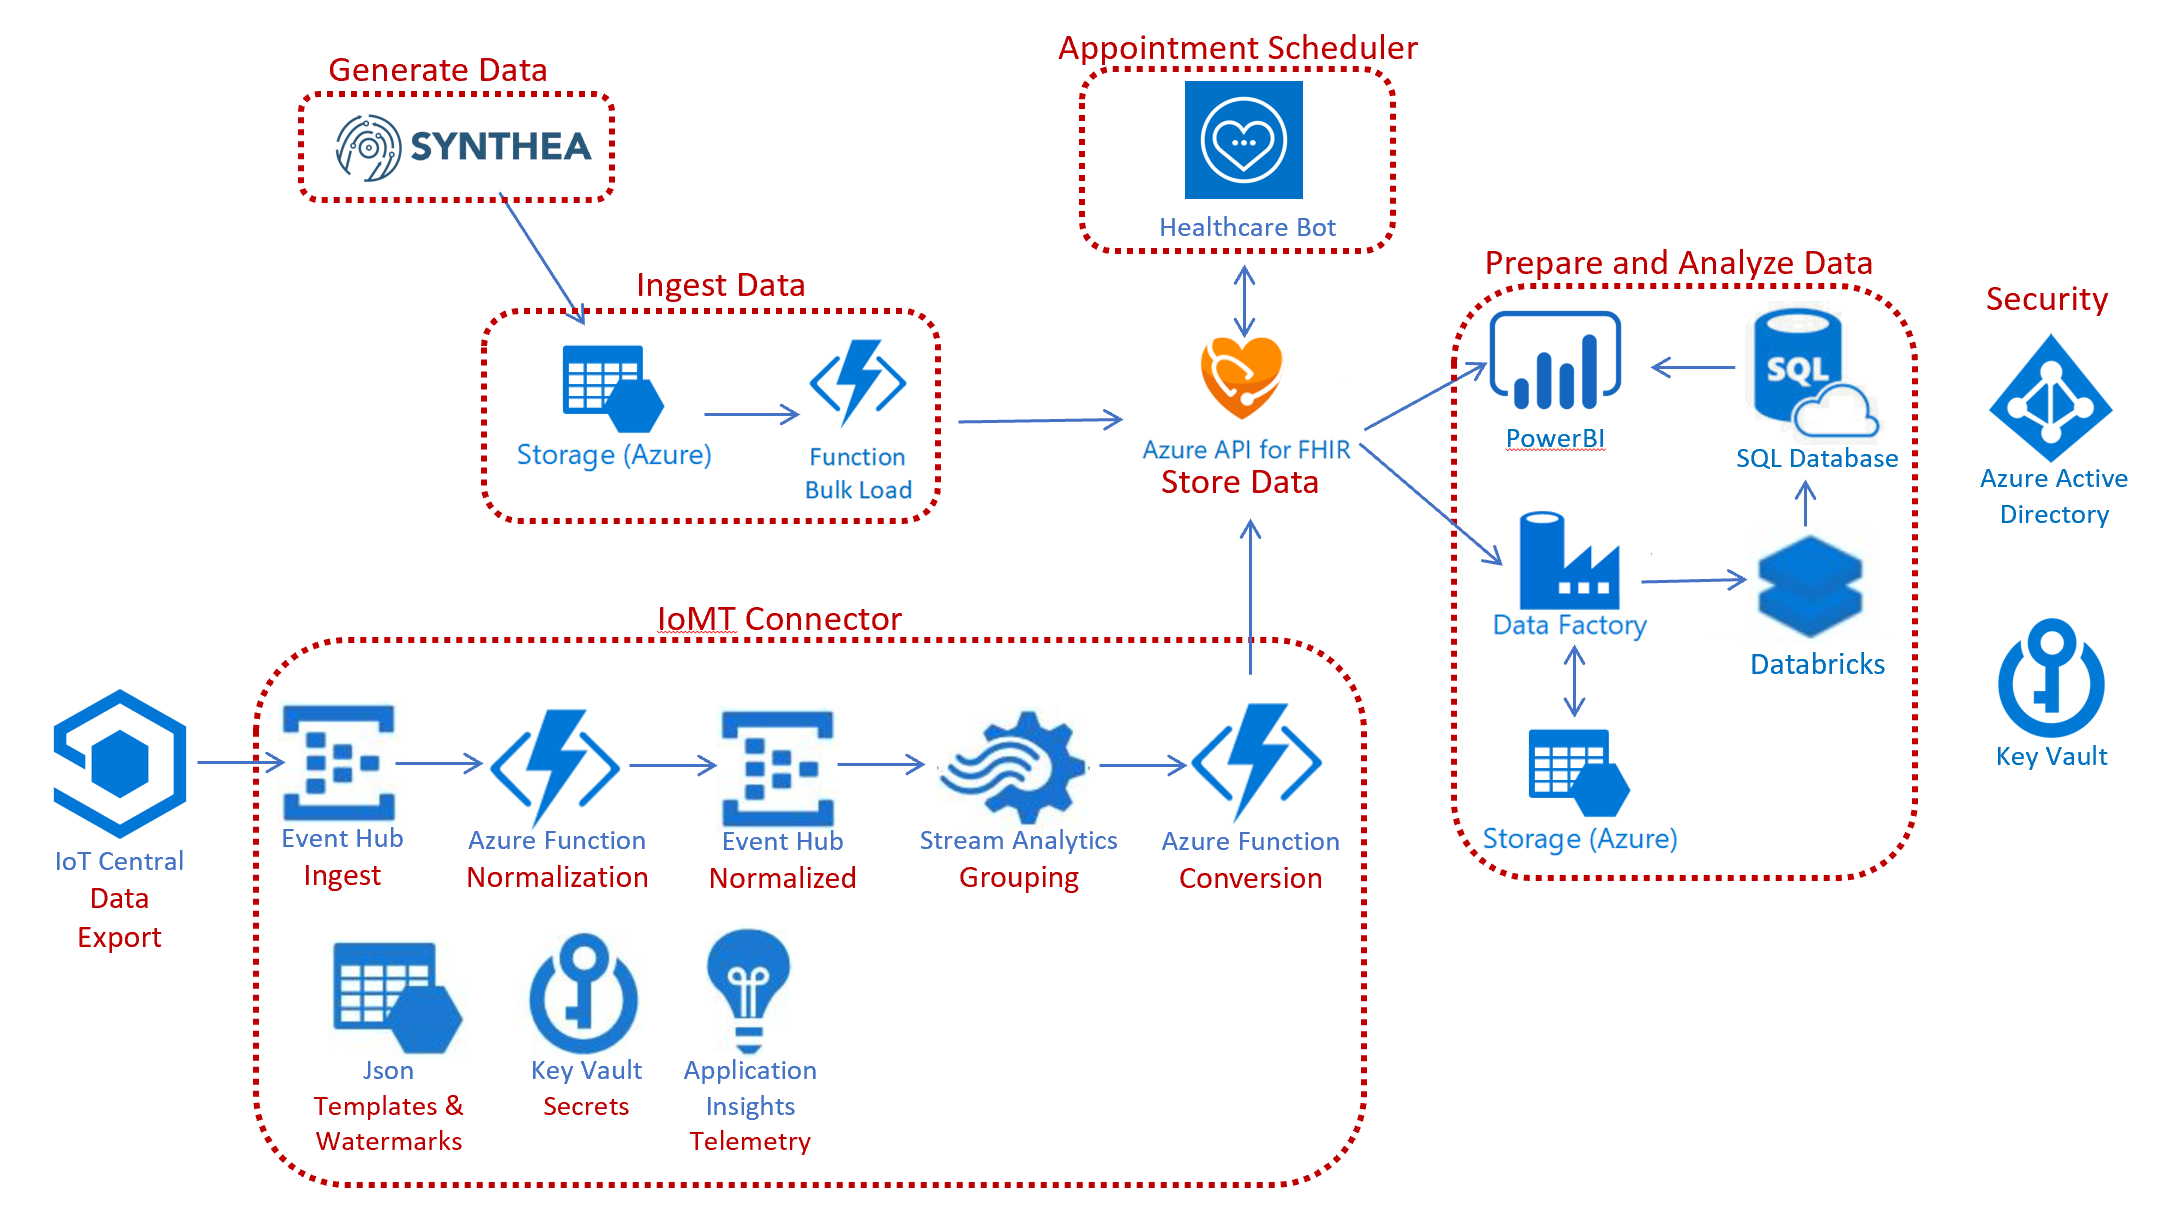
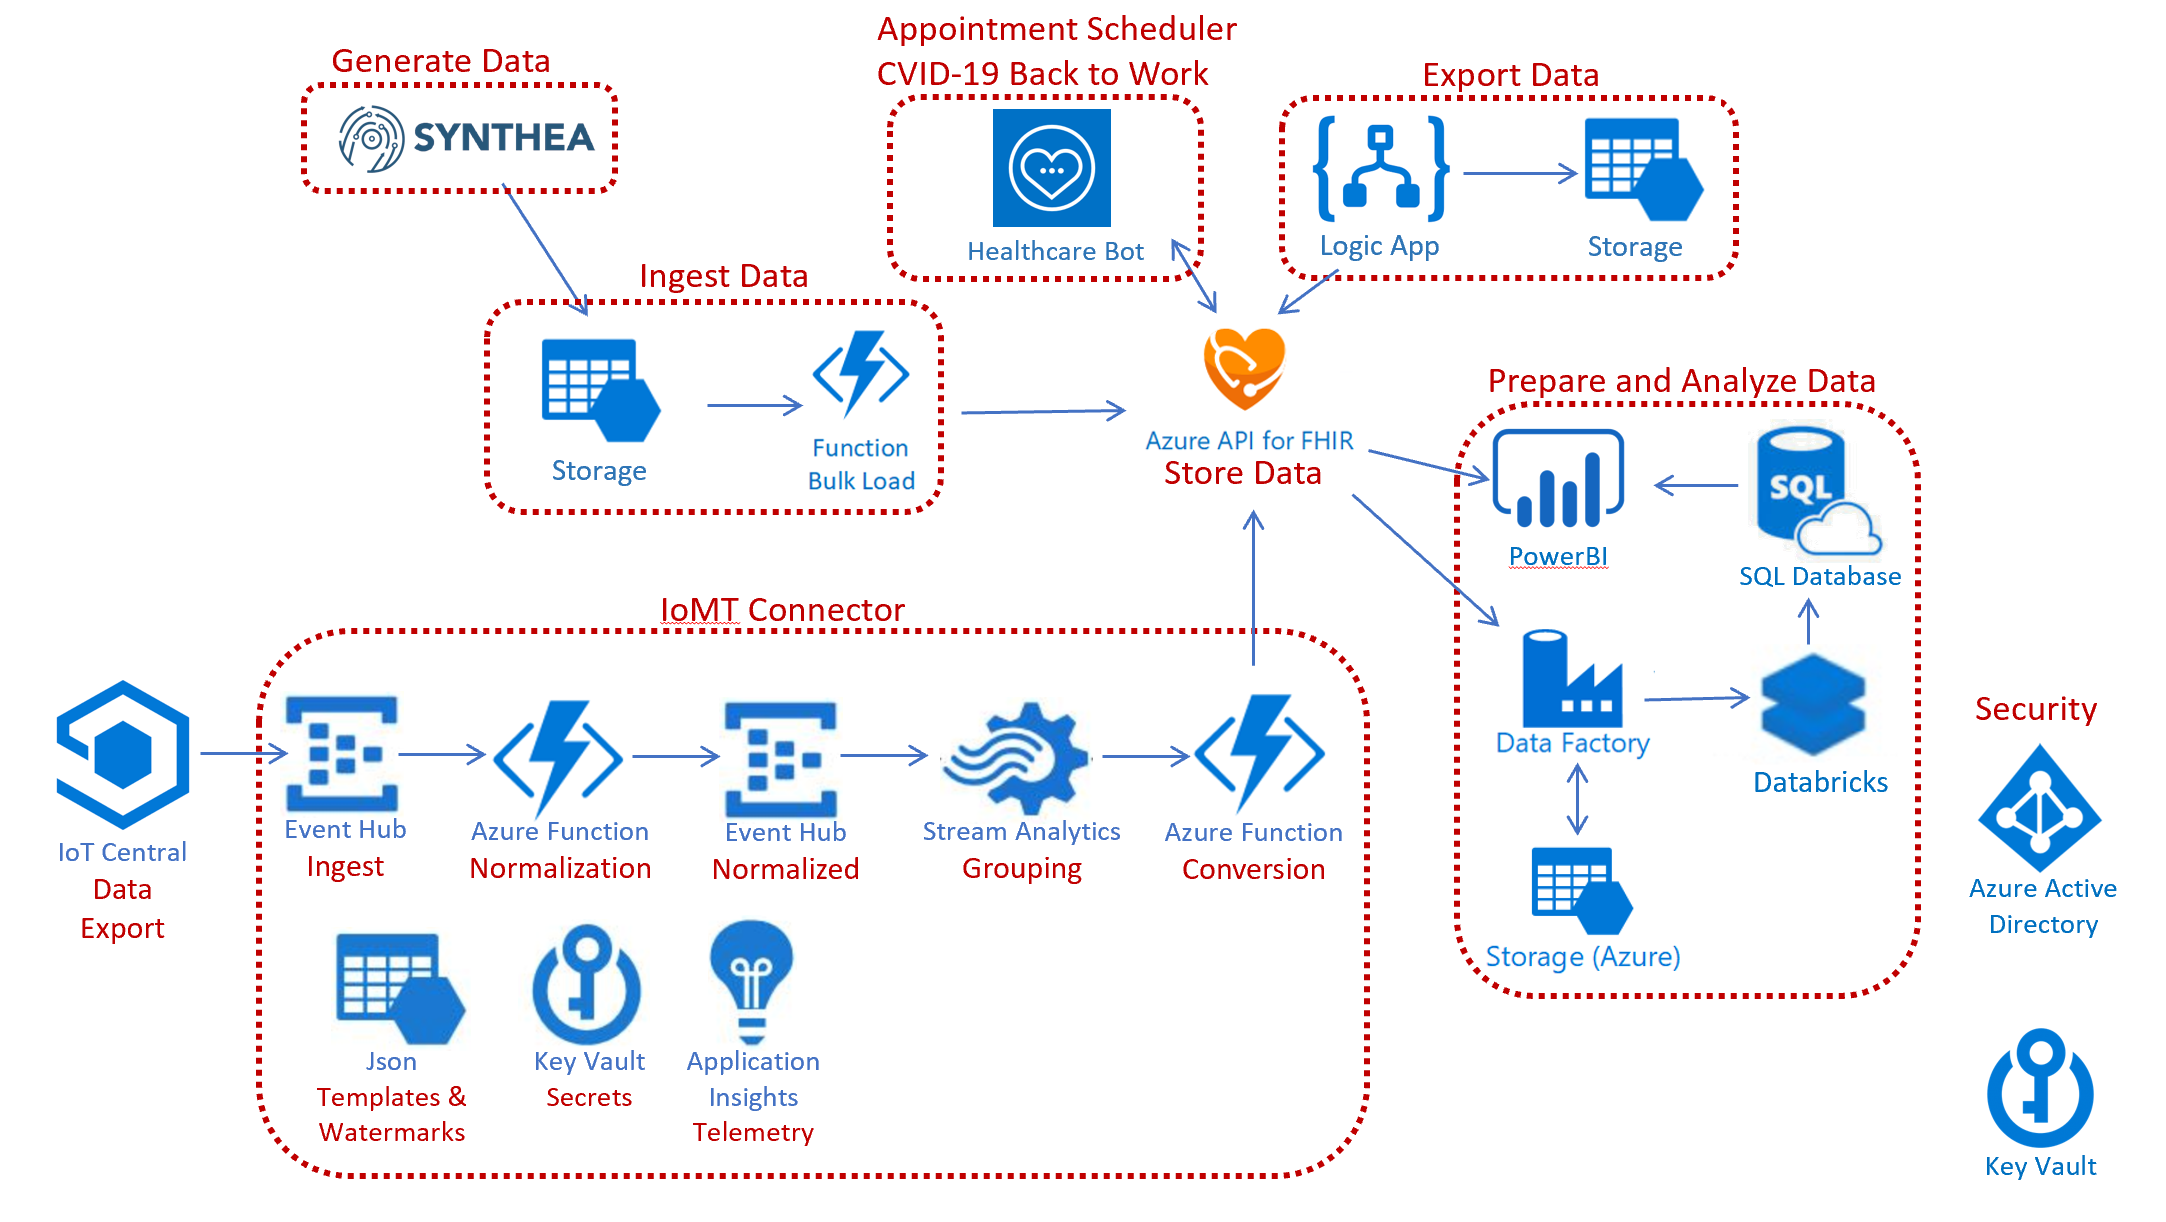
Updated

diff --git a/Chapter10-ExportData/ReadMe.md b/Chapter10-ExportData/ReadMe.md
@@ -1,0 +1,88 @@
+# Chapter 9 - Healthcare Bot: Booking Appointments and Back to Work
+
+#### This chapter is sub-version of [HealthBot](https://docs.microsoft.com/en-us/HealthBot/) focusing on scheduling appointments and symptom screening. Click on the link for more details.
+
+The Health Bot Service is a SaaS solution that empowers Microsoft partners to build and deploy compliant, AI-powered health agents, allowing them to offer their users intelligent, personalized access to health-related information and interactions through a natural conversation experience. 
+
+This chapter focuses on how to use the "Booking appointments" and "Back to Work" template in HealthBot Service and allow users to schedule an appointment with a healthcare provider using FHIR easily and securely.
+
+## Prerequisites
+* [Azure API for FHIR R4 server](../Chapter2-AzureAPIforFHIR/ReadMe.md) with Patient, Schedule and Slot resources.
+* Access to create SaaS [Microsoft Healthcare Bot Service](https://azuremarketplace.microsoft.com/en-us/marketplace/apps/microsoft-hcb.microsofthealthcarebot).
+
+## Steps
+* Setup:\
+Create a [Microsoft Healthcare Bot Service](https://azuremarketplace.microsoft.com/en-us/marketplace/apps/microsoft-hcb.microsofthealthcarebot). Select a software plan and click Create.
+* Configuration:\
+You will receive an email from Azure Marketplace with a config link to the Health Bot Service admin portal. Once configuration is done, you will see the Health Bot Service home page.
+* Authentication:\
+Click Integration --> Authentication from the left navigation and click '+ New'.\
+-- Enter Name for 'Authentication provider'. \
+-- Choose "OAuth 2.0: Server-to-server authorization" in 'Authentication method'.\
+-- Enter your Azure API for FHIR Client ID in 'Client ID'. You can find this in your Azure API for FHIR app registration.\
+-- Enter your Azure API for FHIR Client Secret in 'Client Secret'. You can find this in your Azure API for FHIR app registration.\
+-- Enter https://login.microsoftonline.com/tenantid/oauth2/v2.0/token in 'Access Token URL'. You can find this in Authority under Authentication in your Azure API for FHIR service.\
+-- Check if your Object ID has been added to 'Allowed Object IDs' in your Azure API for FHIR service.\
+-- Enter https://myfhir.azurehealthcareapis.com/.default in 'Scope'.\
+-- Click 'Update'.
+* Data Connection:\
+Click Integration --> Data connections from the left navigation and click '+ New'.\
+-- Enter Name for 'Data connection'.\
+-- Turn on 'FHIR Support'.\
+-- Enter https://myfhir.azurehealthcareapis.com for 'Base URL'. You can find this in Audience under Authentication in your Azure API for FHIR service.\
+-- Choose the Authentication Provider create above in 'Authentication provider'.\
+-- Click 'Update'.
+
+### Booking Appointments Template
+* Template Catalog:\
+-- Expand 'Scenarios' in the left navgation and click 'Template catalog'.\
+-- Click 'Booking appointments' and click 'Import template'.\
+-- The visual designer will open with the template. The imported template will appear under 'Scenarios' --> 'Manage'. Clicking on the name of the template will also open the template in visual designer.
+* Design and Coding: Update Template\
+** Schedule and Slot has to be available for the service types on your Azure API for FHIR.\
+** This template was enhanced to work to create an appointment.\
+-- Click the 'Code' tab on the bottom left.\
+-- Copy and paste from the [Updated Template](./UpdatedFHIRTemplate.json).\
+-- Edit names of 'authenticationProvider' and 'dataConnection' in the file to the ones you created in steps above.\
+-- Save and Exit.\
+-- Open the file and click 'Run' at the top.
+* Design and Coding: From Template Catalog\
+** Schedule and Slot has to be available for the service types on your Azure API for FHIR.\
+** This template has building blocks but needs design and coding changes before ready to create an appointment.\
+** The following changes needs to done for every Data Connection in the template.\
+-- Double-click or right-click --> Edit on every Data Connection that is in oval shape.\
+-- Copy the 'Payload' and save somewhere as you will need it.\
+-- Choose the Data Connection created above from the drop-down.\
+-- Check if the right Base URL appears in 'Base URL'.\
+-- Change 'Path' to not have / or quotes as pre-fix or post-fix. Example: Patient and not /Patient or 'Patient'\
+-- 'Payload' will be grayed out for 'Read'. Paste the copied Payload, from few steps above, into the 'Payload' box for 'Create'. Click Ok. Changing the Data Connection sets the code in Payload to default.\
+-- Save and Exit.\
+-- Re-open and test by right-clicking on any and click 'Run from here'.\
+-- Use Postman or other tools to test if the resources has been saved to Azure API for FHIR.
+
+### Back to Work Template
+* Template Catalog:\
+-- Expand 'Scenarios' in the left navgation and click 'Template catalog'.\
+-- Click 'Back to Work' and click 'Import template'.\
+-- There will be 2 templates created: 'COVID19 Back To Work Core' and 'COVID19 Back To Work CRUD' and will appear under 'Scenarios' --> 'Manage'. CRUD template is called from Core. Clicking on the name of the template will open the template in visual designer.
+* Design and Coding: Update Template\
+-- Open the 'COVID19 Back To Work CRUD' template.\
+** This template has building blocks but needs connection changes before ready to be run.\
+** The following changes needs to done for every Data Connection in the CRUD template.\
+-- Double-click or right-click --> Edit on every Data Connection that is in oval shape.\
+-- Copy the 'Payload' and save somewhere as you will need it.\
+-- Choose the Data Connection created above from the drop-down.\
+-- Check if the right Base URL appears in 'Base URL'.\
+-- 'Payload' will be grayed out for 'Read'. Paste the copied Payload, from few steps above, into the 'Payload' box for 'Create'. Click Ok. Changing the Data Connection sets the code in Payload to default.\
+-- Save and Exit.\
+-- Open 'COVID19 Back To Work Core' template and click 'Run'.\
+-- Use Postman or other tools to test if the resources has been saved to Azure API for FHIR.
+
+* Web Chat:\
+Check this to [Embed Health Bot service in Web](https://github.com/Microsoft/HealthBotcontainersample)
+
+
+
+*** 
+
+

diff --git a/README.md b/README.md
@@ -9,7 +9,8 @@ The high level solution architecture includes:
 #### * Store Data: Store FHIR data in Azure API for FHIR service.
 #### * Prepare and Analyze Data: Prepare data using Azure Data Factory and Azure Databricks. Store in Azure SQL DB. Analyze using PowerBI.
 #### * IoMT Connector: Ingest data from IoMT (internet of medical things) devices and persist the data in a FHIR® server.
-#### * Appointment Scheduler: Allow users to schedule an appointment using Healthcare Bot and FHIR.
+#### * Appointment Scheduler: Allow users to schedule an appointment using Healthcare Bot and FHIR. Back to Work: COVID-19 symptom screening to check if it is safe for your employees to return to work.
+#### * Export Data: Export FHIR data using Logic Apps into Blob Storage.
 
 <center><img src="images//azure-api-fhir-paas.png" width="850"></center>
 
@@ -26,7 +27,8 @@ Azure Subscription is required to complete this starter kit. Azure Subscription 
 * [Chapter 6 - PowerBI: Analyze the FHIR bundles](./Chapter6-PowerBI/ReadMe.md)
 * [Chapter 7 - Open Source FHIR Server: Create and Configure](./Chapter7-OpenSourceFHIRServer/ReadMe.md)
 * [Chapter 8 - IoMT FHIR Connector: Ingest and Persist](./Chapter8-IoMTFHIRConnector/ReadMe.md)
-* [Chapter 9 - Healthcare Bot: Appointment Scheduler](./Chapter9-HealthcareBot/ReadMe.md)
+* [Chapter 9 - Healthcare Bot: Booking appointments and Back to Work](./Chapter9-HealthcareBot/ReadMe.md)
+* [Chapter 10 - Export FHIR Data: Export FHIR data to Blob Storage](./Chapter10-ExportFHIR/ReadMe.md)
 
 # Contributing
 
